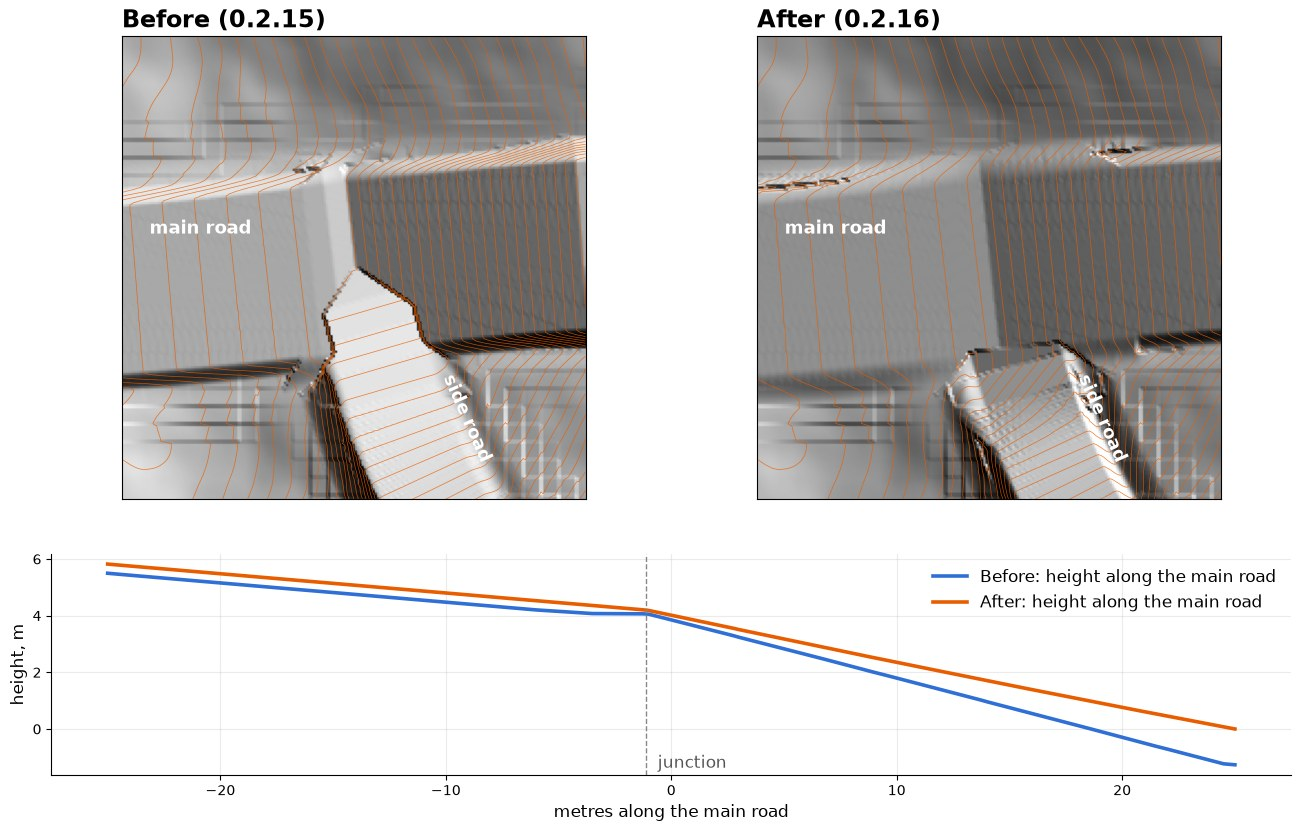
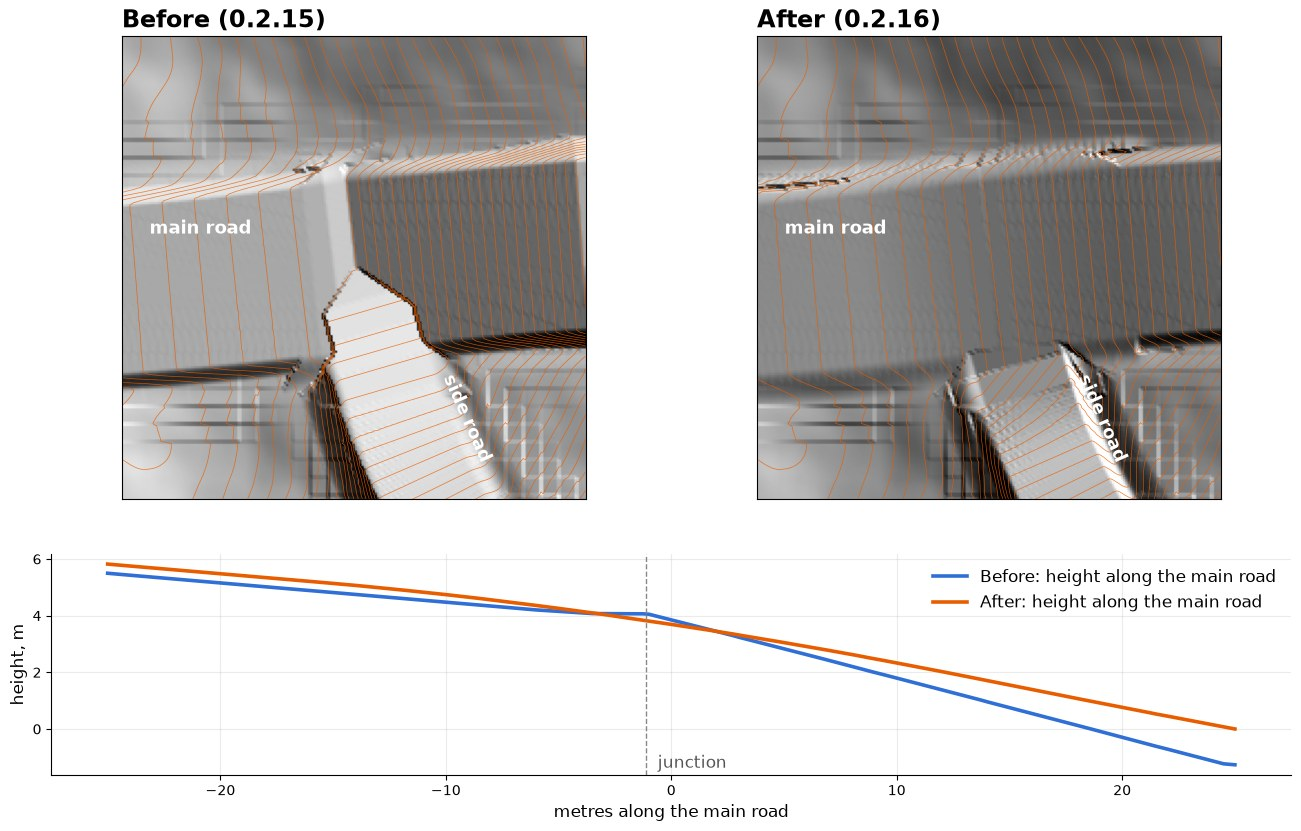
A through road changing grade at a junction gets a vertical curve; 0.2.16 page with it
profileSolve roundThroughJunctions: the two arms of a road going on through a
junction are solved as two roads and met at the node in a corner (7% in, 16%
out on the report's junction: a crest). One cubic through the node now,
3 m of road per percent of change (10-60 m), the node moving with it and the
other arms following over 20 m. Not at a structure's approach (pits beside a
freeway lid's walls in the sweep).

In game on the report's junction: 6.8% to 15.6% in steps of about 1.3% per
4 m, no step over 5 cm in the lanes. Matrix sweep against 0.2.15: junction
bumps 237 > 208, tilted cross-sections 13244 > 13006. Baselines re-recorded.

Update page: the fifth cause, a steepness chart, an in-game view.

Claude-Session: https://claude.ai/code/session_01A32U8yuQqH6rTBcwk1Nx6s

Changed region(s): [[0.6764, 0.1805, 0.8609, 0.6017], [0.2767, 0.6919, 0.6457, 0.7822], [0.6457, 0.7822, 0.7071, 0.8123]]

diff --git a/services/structures/profileSolve.js b/services/structures/profileSolve.js
@@ -1,4 +1,4 @@
-import { findSideArms, sideArmFromEnd, sideArmStation, throughSurface } from './sideArms.js';
+import { findSideArms, findThroughJunctions, sideArmFromEnd, sideArmStation, throughSurface } from './sideArms.js';
 import { RAIL_GRADE_CEILING, RAIL_GRADE_LIMIT, RAIL_GROUND_BAND_M, railKindOfClass } from '../railways.js';
 
 // Structure solver, stage C: the vertical profile of every road at once
@@ -607,6 +607,7 @@ export function* solveProfilesSteps(graph) {
   }
   if (split) clampGrades();
   verticalCurves(graph, Z, L, U, off, pinned, held);
+  roundThroughJunctions(graph, Z, L, U, off, pinned, held, asStructure);
   seatSideArms(graph, Z, L, U, off, pinned, held, asStructure);
   tieTwinDecks(edges, Z, off, pinned, held, L, U, crossings);
   const z = edges.map((e, k) => Z.slice(off[k], off[k] + e.s.length));
@@ -794,6 +795,85 @@ function verticalCurves(graph, Z, L, U, off, pinned, held) {
             Z[v] = Math.min(Math.max(L[v], U[v]), Math.max(L[v], z));
           }
         }
+      }
+    }
+  }
+}
+
+// A road going on through a junction (sideArms.js) with a different grade
+// either side of it: a vertical curve through the node, as verticalCurves
+// lays at a deck's end, VC_M_PER_PCT of road per percent of grade change.
+// Its two arms are solved as two roads, each with its own grade allowance,
+// and met at the node in a corner: 7% into a junction and 16% out of it, a
+// crest a car went light over. The node moves with the curve; the other
+// roads meeting there follow it, the move faded out along them.
+const VC_JUNCTION_MIN = 0.02;        // grade changes under this are left
+const VC_JUNCTION_FOLLOW_M = 20;     // the other arms take up the node's move over this far
+function roundThroughJunctions(graph, Z, L, U, off, pinned, held, asStructure) {
+  const { edges } = graph;
+  const fixedAt = (v) => pinned[v] || held[v];
+  const put = (v, z) => { Z[v] = Math.min(Math.max(L[v], U[v]), Math.max(L[v], z)); };
+  const side = ({ edge, end }) => {
+    const e = edges[edge]; const n = e.s.length; const out = [];
+    for (let j = 0; j < n; j++) { const i = sideArmStation(e, end, j); out.push([off[edge] + i, sideArmFromEnd(e, end, i)]); }
+    return out;
+  };
+  const at = (S, d) => {
+    for (let k = 0; k + 1 < S.length; k++) {
+      if (S[k + 1][1] >= d) { const f = (d - S[k][1]) / ((S[k + 1][1] - S[k][1]) || 1); return Z[S[k][0]] + (Z[S[k + 1][0]] - Z[S[k][0]]) * f; }
+    }
+    return Z[S[S.length - 1][0]];
+  };
+  const slopeAt = (S, d) => { const d1 = Math.min(d + 4, S[S.length - 1][1]); const d0 = Math.max(0, d - 4); return (at(S, d1) - at(S, d0)) / ((d1 - d0) || 1); };
+  const gradeOf = (S) => {
+    const z0 = Z[S[0][0]];
+    const far = S.filter(([, d]) => d >= VC_GRADE_M[0] && d <= VC_GRADE_M[1]);
+    if (far.length < 2) return null;
+    let sdd = 0; let sdz = 0;
+    for (const [v, d] of far) { sdd += d * d; sdz += d * (Z[v] - z0); }
+    return sdz / (sdd || 1);
+  };
+  const hermite = (z0, m0, z1, m1, len, d) => {
+    const u = d / len; const u2 = u * u; const u3 = u2 * u;
+    return (2 * u3 - 3 * u2 + 1) * z0 + (u3 - 2 * u2 + u) * len * m0 + (-2 * u3 + 3 * u2) * z1 + (u3 - u2) * len * m1;
+  };
+  // (not beside a structure: a road that meets a deck or a tunnel at its other end is that
+  // structure's approach, ramped to it; a curve cut into it left pits by a freeway lid's walls)
+  const structNode = new Set();
+  for (const e of edges) if (asStructure(e) || e.external) { structNode.add(e.from); structNode.add(e.to); }
+  const approach = ({ edge }) => structNode.has(edges[edge].from) || structNode.has(edges[edge].to);
+  for (const j of findThroughJunctions(graph, seatable(graph, asStructure))) {
+    if ([j.a, j.b, ...j.others].some(approach)) continue;
+    const A = side(j.a); const B = side(j.b); const others = j.others.map(side);
+    const all = [A, B, ...others];
+    // (nothing held or pinned at the node or along the curve)
+    if (all.some((S) => fixedAt(S[0][0]))) continue;
+    const gA = gradeOf(A); const gB = gradeOf(B);
+    if (gA === null || gB === null) continue;
+    const change = Math.abs(gA + gB);   // (each measured away from the node: a straight line sums to 0)
+    if (change < VC_JUNCTION_MIN) continue;
+    // (never past an arm's middle: its other end may be curved too)
+    const h = Math.min(VC_MAX_M, Math.max(VC_MIN_M, change * 100 * VC_M_PER_PCT), A[A.length - 1][1], B[B.length - 1][1]) / 2;
+    if (!(h >= 2)) continue;
+    if ([A, B].some((S) => S.some(([v, d]) => d < h && fixedAt(v)))) continue;
+    const za = at(A, h); const zb = at(B, h); const sa = slopeAt(A, h); const sb = slopeAt(B, h);
+    const before = Z[A[0][0]];
+    // one cubic from h out on one arm to h out on the other (along it the grades are -sa, then sb)
+    for (const [S, sign] of [[A, -1], [B, 1]]) {
+      for (const [v, d] of S) {
+        if (d >= h) break;
+        put(v, hermite(za, -sa, zb, sb, 2 * h, sign * d + h));
+      }
+    }
+    // (the node is one height: both arms' ends, as the envelopes left them)
+    const node = (Z[A[0][0]] + Z[B[0][0]]) / 2; Z[A[0][0]] = node; Z[B[0][0]] = node;
+    const delta = node - before;
+    for (const S of others) {
+      const reach = Math.min(VC_JUNCTION_FOLLOW_M, S[S.length - 1][1] / 2);
+      for (const [v, d] of S) {
+        if (d > 0 && d >= reach) break;
+        if (d === 0) { Z[v] = node; continue; }
+        if (!fixedAt(v)) put(v, Z[v] + delta * (1 - d / reach));
       }
     }
   }

diff --git a/public/updates/0.2.16/index.html b/public/updates/0.2.16/index.html
@@ -10,7 +10,7 @@
 <meta property="og:title" content="MapNG 0.2.16: smoother junctions on hills">
 <meta property="og:description" content="No ridges across the road at junctions on hills, side roads that leave at the main road's slope, and a clear notice when a map was built from backup map data.">
 <meta property="og:url" content="https://mapng.com/updates/0.2.16/">
-<meta property="og:image" content="https://mapng.com/updates/0.2.16/images/junction-before-after.jpg">
+<meta property="og:image" content="https://mapng.com/updates/0.2.16/images/junction-grade.jpg">
 <meta name="twitter:card" content="summary_large_image">
 <link rel="icon" href="/favicon.svg" type="image/svg+xml">
 <style>
@@ -161,14 +161,17 @@
     <div class="kicker">Roads</div>
     <h2>🛣 No more ridges across the road at junctions</h2>
     <p>On a hill, a junction could come out with a flat pad across the main road, a short steep ramp beside it, and the side road's trench cut into the main road's near lane. It happened at every terrain resolution; on a map made at 0.25 m per pixel it showed as a sharp ridge.</p>
-    <p>There were four causes, and all four are fixed:</p>
+    <p>There were five causes, and all five are fixed:</p>
     <ul>
       <li><b>Road smoothing</b> averaged a road's height by counting its points, not by distance. Points are closer together near corners, so the road stepped beside every junction on a slope.</li>
       <li><b>A wide road's levelled strip</b> reached past the junction at the wrong height and left a pad across it (0.5 m off on the tester's 12 % hill).</li>
       <li><b>A road steeper than its class allows</b> was held to its limit along most of the hill and then let go at three times that for the last metres before the junction. It now follows the hill at one even grade.</li>
+      <li><b>A main road changing grade at a junction</b> did it in a corner, because its two halves were worked out as two roads. It now gets a rounded curve through the junction, about 3 m of road per percent of change.</li>
       <li><b>A side road</b> started dropping from the main road's centre line. It now stays on the main road's surface across its lanes and leaves the edge at the main road's slope.</li>
     </ul>
-    <figure><img src="images/junction-before-after.jpg" alt="The terrain at one T-junction on a hill, from above, before and after: before, a flat band across the main road at the junction and the side road's strip cut into the main road's lane; after, the main road's contour lines run evenly through the junction and the side road begins at its edge. Below, the height along the main road: before, a level shelf at the junction followed by a steeper drop; after, one even line." loading="lazy"><figcaption>One junction on the tester's map, from above (orange: contour lines every 0.25 m), and the height along the main road through it. Over 66 test exports, junctions with a bump or dip went from 237 to 219 and tilted road cross-sections from 13,244 to 13,005.</figcaption></figure>
+    <figure><img src="images/junction-grade.jpg" alt="Line chart of how steep the main road is along 80 m through one junction. In 0.2.15 the road runs at 7 %, flattens to 2.5 % just before the junction, jumps to 21 % for 25 m after it and drops back to 7 %. In 0.2.16 it rises evenly from 7 % to 16 % over about 30 m and then eases off." loading="lazy"><figcaption>How steep the main road is through one junction on the tester's map (terrain measured from the exported level). 0.2.15 went 7 %, 2.5 %, 21 %, 7 % within 30 m; 0.2.16 eases from 7 % to 16 %, which is how steep the hill is there.</figcaption></figure>
+    <figure><img src="images/junction-before-after.jpg" alt="The terrain at the same T-junction from above, before and after: before, a flat band across the main road at the junction and the side road's strip cut into the main road's lane; after, the main road's contour lines run evenly through the junction and the side road begins at its edge. Below, the height along the main road." loading="lazy"><figcaption>The same junction from above (orange: contour lines every 0.25 m), and the height along the main road. Over 66 test exports, junctions with a bump or dip went from 237 to 208 and tilted road cross-sections from 13,244 to 13,006.</figcaption></figure>
+    <figure><img src="images/junction-in-game.jpg" alt="Driver's view in BeamNG.drive on the main road just before the junction, heading downhill: the asphalt runs smoothly through the junction and the road is in view beyond it" loading="lazy"><figcaption>The junction in BeamNG.drive 0.40 with 0.2.16, heading downhill: no pad, no ridge, and the road stays in view past the junction. Measured in game: no height step over 5 cm in the main road's lanes.</figcaption></figure>
     <div class="note"><b>Good to know:</b> a road down a hill that is steeper than its class would be built now follows the hill instead of cutting deep into it. On very steep terrain that means a steep road, as the elevation data has it.</div>
   </section>
 

diff --git a/services/structures/sideArms.js b/services/structures/sideArms.js
@@ -91,5 +91,33 @@ export function findSideArms(graph, plain = () => true) {
   return out;
 }
 
+/**
+ * The junctions with a road going on through: [{ a, b, others }], a and b the
+ * two arms most nearly in line ({ edge, end }; of several such pairs the
+ * widest road's), others the rest of the arms there. Every arm a road on the
+ * ground (plain).
+ */
+export function findThroughJunctions(graph, plain = () => true) {
+  const out = [];
+  if (!graph.nodes?.values) return out;
+  for (const node of graph.nodes.values()) {
+    if (node.edges.length < 3) continue;
+    const arms = node.edges.map((a) => ({ edge: a.edge, end: a.end, dir: graph.edges[a.edge].s.length >= 2 ? dirOf(graph.edges[a.edge], a.end) : null }));
+    if (new Set(arms.map((a) => a.edge)).size !== arms.length || arms.some((a) => !a.dir || !plain(a.edge))) continue;
+    let best = null;
+    for (let a = 0; a < arms.length; a++) {
+      for (let b = a + 1; b < arms.length; b++) {
+        const dot = arms[a].dir[0] * arms[b].dir[0] + arms[a].dir[1] * arms[b].dir[1];
+        if (dot > THROUGH_COS) continue;
+        const width = graph.edges[arms[a].edge].half + graph.edges[arms[b].edge].half;
+        if (!best || width > best.width + 1e-6 || (Math.abs(width - best.width) <= 1e-6 && dot < best.dot)) best = { a, b, dot, width };
+      }
+    }
+    if (!best) continue;
+    out.push({ a: arms[best.a], b: arms[best.b], others: arms.filter((_, i) => i !== best.a && i !== best.b) });
+  }
+  return out;
+}
+
 export const sideArmStation = stationAt;
 export const sideArmFromEnd = fromEnd;

diff --git a/README.md b/README.md
@@ -69,7 +69,7 @@ The Windows build isn't code-signed yet: on first run Windows SmartScreen may sa
 
 **MapNG 0.2.16** ([update page](https://mapng.com/updates/0.2.16/)): fixes
 
-- **Junctions on hills:** no ridge or flat pad across the main road, no steep ramp beside the junction; a side road leaves the main road's edge at its slope
+- **Junctions on hills:** no ridge or flat pad across the main road, no steep ramp beside the junction, a rounded curve where the main road changes grade there; a side road leaves the main road's edge at its slope
 - **Backup map data:** a notice after Generate when OpenStreetMap's servers did not answer and the map was built from Overture (no lane counts, rougher bridges); MapNG's own map tiles survive a failed request
 
 **MapNG 0.2.15** ([update page](https://mapng.com/updates/0.2.15/)): fixes
